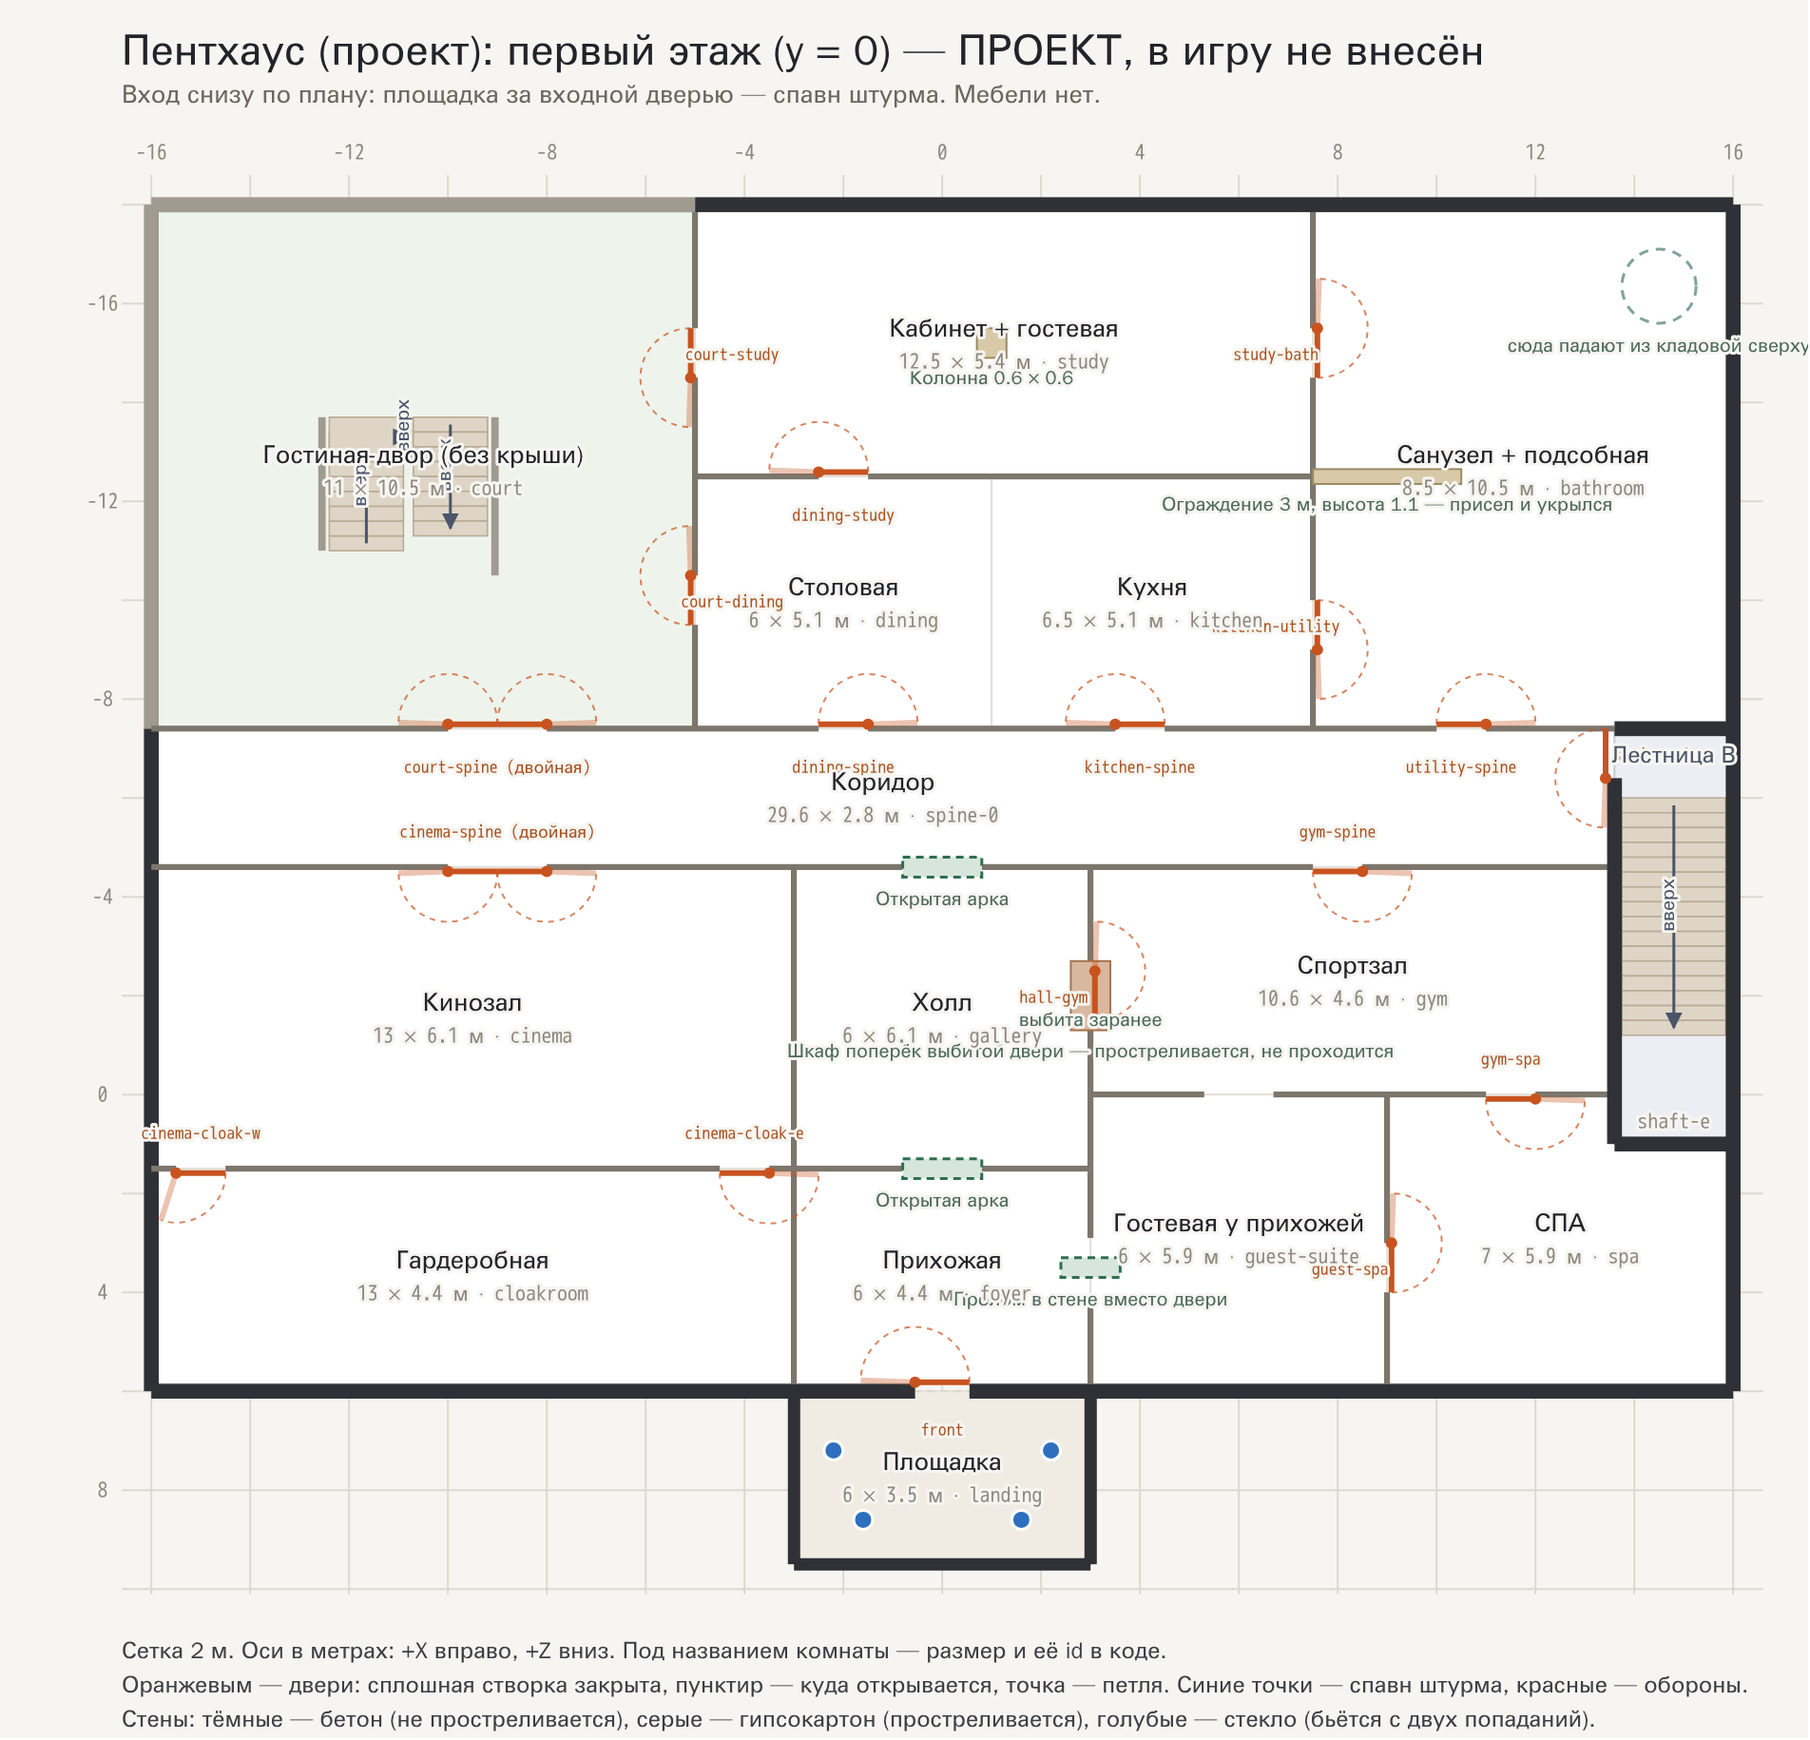
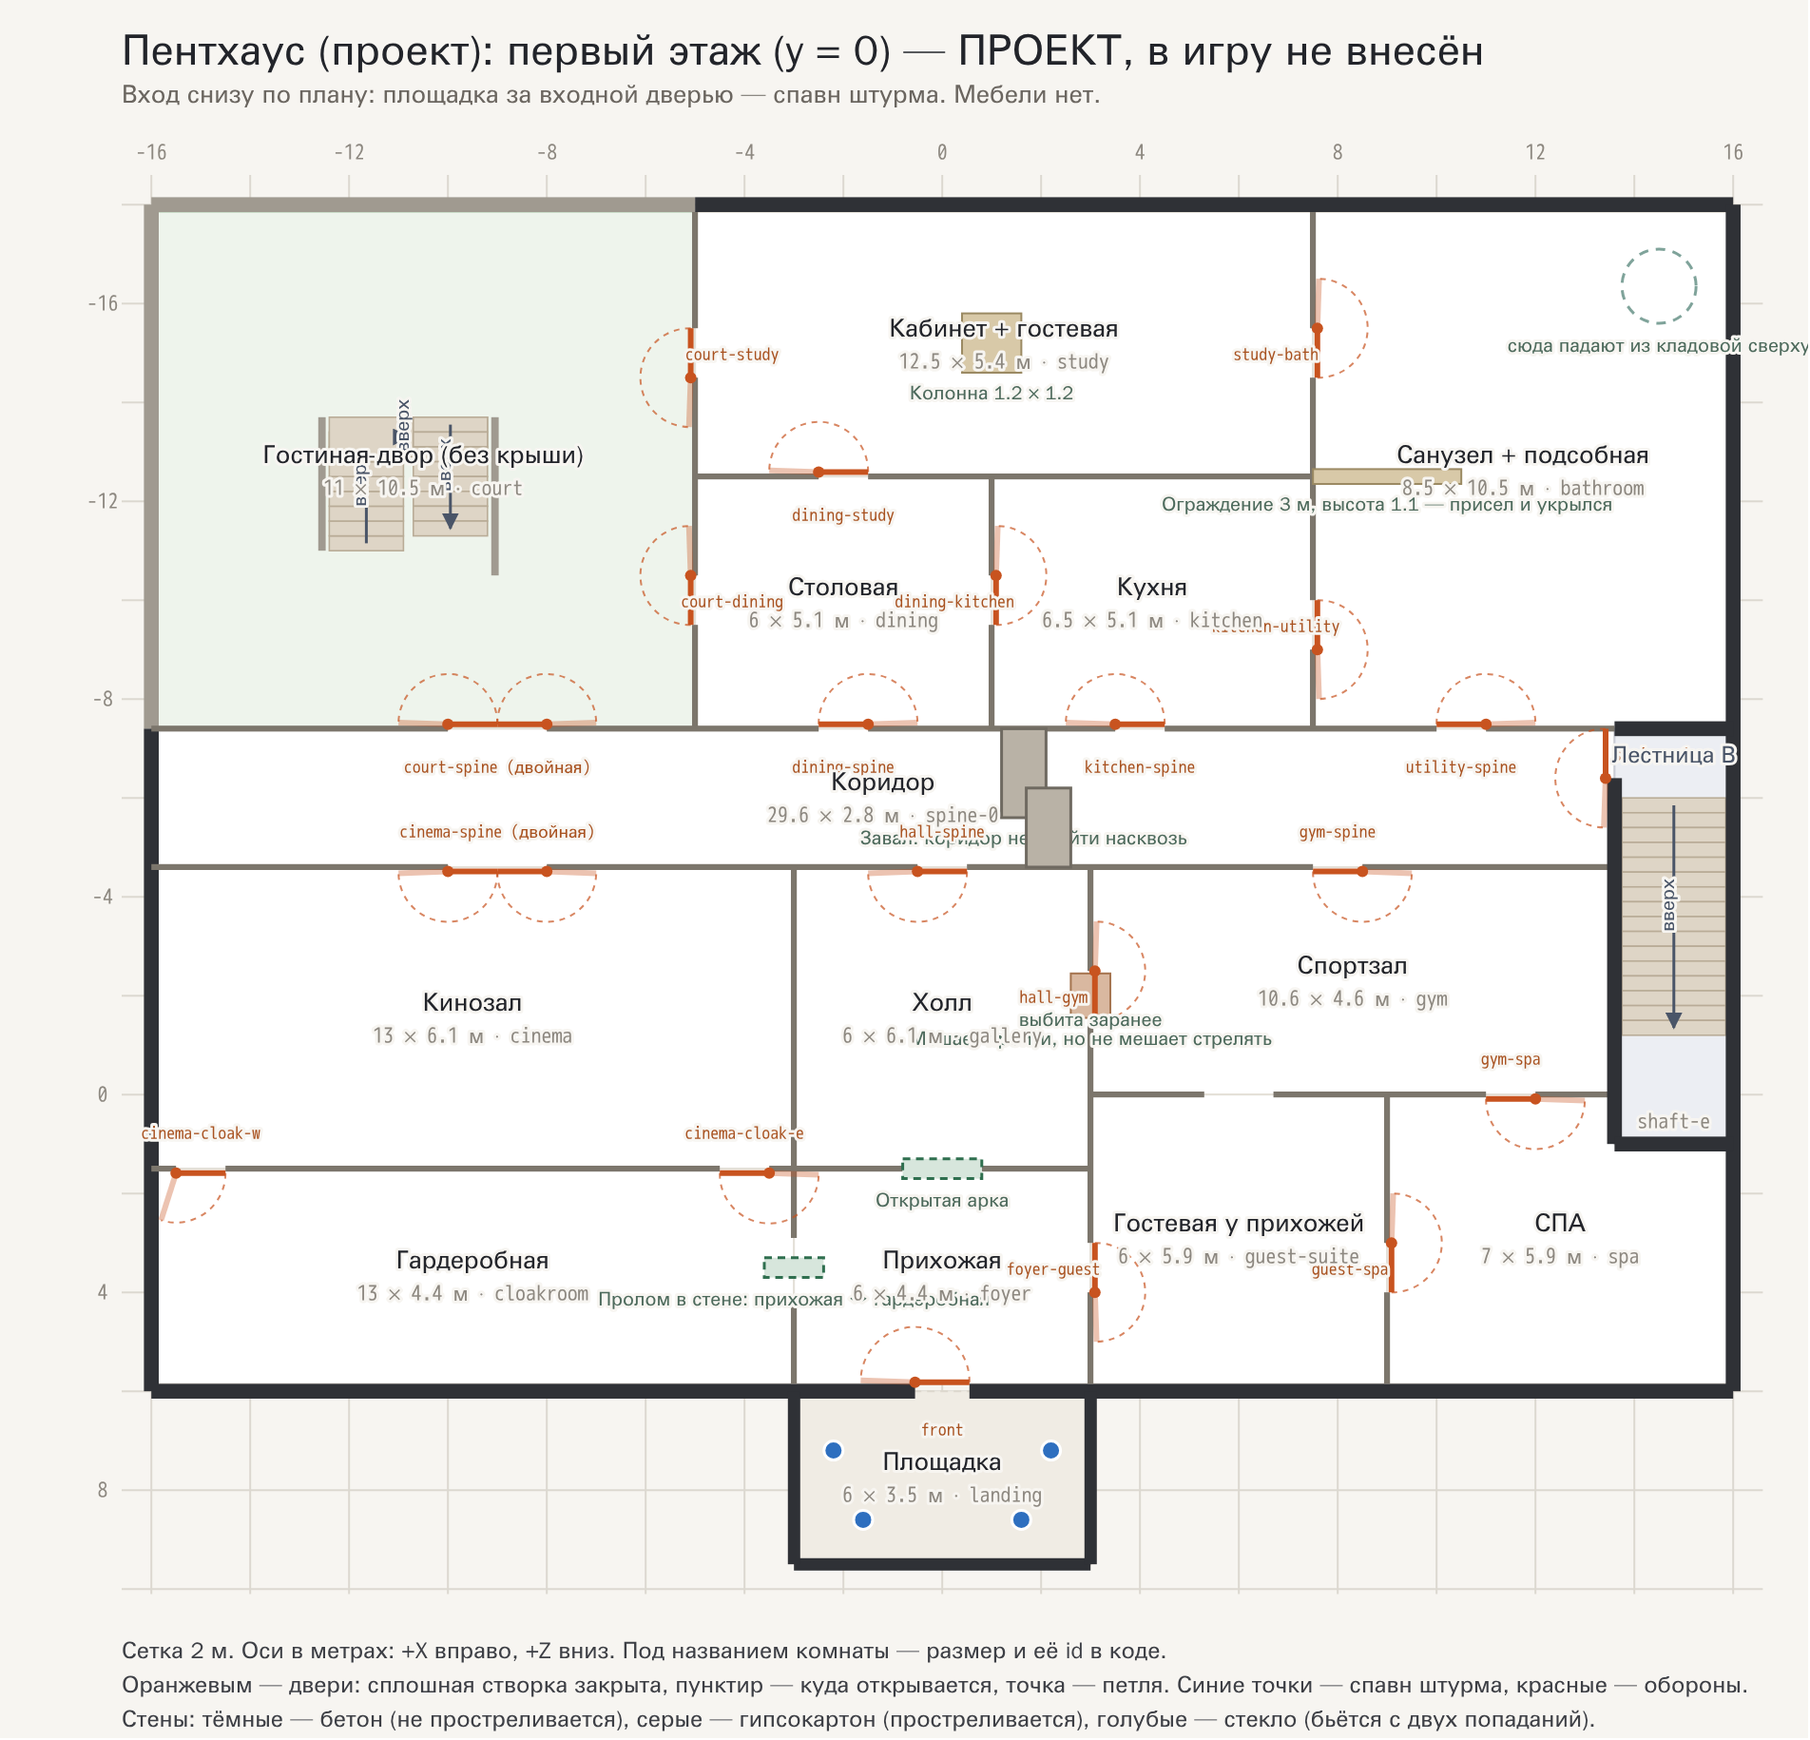
Correct the draft plan where I read it wrong
Six fixes to the proposal, none of them in the game yet:

The breach belongs between the entrance hall and the cloakroom, not the guest
room — the guest room gets an ordinary door, and so does hall ↔ corridor, which
I had drawn as an archway. Dining and kitchen keep the wall and door they
always had. The corridor is caved in between the hall door and the kitchen
door, in two staggered blocks, so its length cannot be walked or shot straight
through. The thing in the kicked-in gym doorway is now knee-high: it stops a
player and leaves the shot alone. The column in the merged study is 1.2 × 1.2.

diff --git a/src/maps/penthouse-v2.js b/src/maps/penthouse-v2.js
@@ -18,8 +18,8 @@
 //   · cinema ↔ hall and hall ↔ cloakroom are walled up, and two new doors join
 //     the cinema to the cloakroom at both ends of its south wall;
 //   · the way into the hall from the guest room is a hole in the wall;
-//   · hall ↔ gym starts kicked in and blocked by a wardrobe you can shoot
-//     through but not walk past;
+//   · hall ↔ gym starts kicked in with something small in the way: no
+//     walking through, but nothing in the way of a shot;
 //   · bathroom and utility become one room split by a bar-height barrier;
 //   · study and guest bedroom become one room with a column where the wall was;
 //   · upstairs: defenders spawn in bedroom 3, the bathroom opens into the
@@ -184,7 +184,7 @@ const groundWalls = [
   ...wall(-16, -4.6, 13.6, -4.6, M.drywall, {
     gaps: [
       { at: -9, width: 2.0 }, // double door, corridor ↔ cinema
-      { at: 0, width: 1.6 }, // open archway into the hall
+      { at: 0, width: 1.0 }, // door into the hall
       { at: 8, width: 1.0 },
     ],
   }),
@@ -195,14 +195,17 @@ const groundWalls = [
     gaps: [{ at: -9.5, width: 1.0 }, { at: -15, width: 1.0 }],
   }),
   ...wall(-5, -12.5, 7.5, -12.5, M.drywall, { gaps: [{ at: -2, width: 1.0 }] }),
+  // Dining and kitchen keep their old wall and door.
+  ...wall(1, -12.5, 1, -7.4, M.drywall, { gaps: [{ at: -10, width: 1.0 }] }),
 
   // South half. Cinema ↔ hall is walled up; the cloakroom is reached from the
   // cinema at both ends of its south wall.
-  ...wall(-3, -4.6, -3, 5.85, M.drywall, {}),
+  // Entrance hall ↔ cloakroom: a hole punched through, no door in it.
+  ...wall(-3, -4.6, -3, 5.85, M.drywall, { gaps: [{ at: 3.5, width: 1.2 }] }),
   ...wall(3, -4.6, 3, 5.85, M.drywall, {
     gaps: [
-      { at: -2, width: 1.0 }, // hall ↔ gym: kicked in, blocked by a wardrobe
-      { at: 3.5, width: 1.2 }, // hole punched in the wall, no door
+      { at: -2, width: 1.0 }, // hall ↔ gym: kicked in, and something in the way
+      { at: 3.5, width: 1.0 }, // ordinary door to the guest room
     ],
   }),
   ...wall(-16, 1.5, 3, 1.5, M.drywall, {
@@ -222,13 +225,22 @@ const blockers = [
   // you are gone, stand and you are seen.
   { ...box(7.5, 0, -12.65, 10.5, RAIL, -12.35, M.concrete), tag: 'barrier',
     note: 'Ограждение 3 м, высота 1.1 — присел и укрылся' },
+
   // The column left behind when the study and the guest bedroom became one.
-  { ...box(0.7, 0, -15.5, 1.3, WALL_H, -14.9, M.concrete), tag: 'column',
-    note: 'Колонна 0.6 × 0.6' },
-  // A wardrobe shoved across the kicked-in gym door: rounds go through, people
-  // do not.
-  { ...box(2.6, 0, -2.7, 3.4, 2.0, -1.3, M.wood), tag: 'blocked',
-    note: 'Шкаф поперёк выбитой двери — простреливается, не проходится' },
+  { ...box(0.4, 0, -15.8, 1.6, WALL_H, -14.6, M.concrete), tag: 'column',
+    note: 'Колонна 1.2 × 1.2' },
+
+  // The corridor is caved in between the hall door and the kitchen door, so
+  // nobody walks its full length in a straight line: the way past is through
+  // the rooms on either side.
+  { ...box(1.2, 0, -7.4, 2.1, WALL_H, -5.6, M.concrete), tag: 'rubble',
+    note: 'Завал: коридор не пройти насквозь' },
+  { ...box(1.7, 0, -6.2, 2.6, WALL_H, -4.6, M.concrete), tag: 'rubble' },
+
+  // Something small shoved into the kicked-in gym doorway: it stops you
+  // walking through, and you can shoot over it and past it freely.
+  { ...box(2.6, 0, -2.45, 3.4, 0.95, -1.55, M.wood), tag: 'blocked',
+    note: 'Мешает пройти, но не мешает стрелять' },
 ];
 
 // ── Upper floor ──────────────────────────────────────────────────────────
@@ -313,6 +325,9 @@ const doors = [
   { id: 'kitchen-spine', pos: { x: 4, z: -7.4 }, axis: 'x', width: 1.0, hinge: -1, swing: -1, material: M.wood },
   { id: 'utility-spine', pos: { x: 10.5, z: -7.4 }, axis: 'x', width: 1.0, hinge: 1, swing: -1, material: M.wood },
   { id: 'gym-spine', pos: { x: 8, z: -4.6 }, axis: 'x', width: 1.0, hinge: 1, swing: 1, material: M.wood },
+  { id: 'hall-spine', pos: { x: 0, z: -4.6 }, axis: 'x', width: 1.0, hinge: -1, swing: 1, material: M.wood },
+  { id: 'dining-kitchen', pos: { x: 1, z: -10 }, axis: 'z', width: 1.0, hinge: -1, swing: 1, material: M.wood },
+  { id: 'foyer-guest', pos: { x: 3, z: 3.5 }, axis: 'z', width: 1.0, hinge: 1, swing: 1, material: M.wood },
 
   { id: 'court-study', pos: { x: -5, z: -15 }, axis: 'z', width: 1.0, hinge: 1, swing: -1, material: M.wood },
   { id: 'court-dining', pos: { x: -5, z: -10 }, axis: 'z', width: 1.0, hinge: -1, swing: -1, material: M.wood },
@@ -359,10 +374,9 @@ const holes = [
 
 // Ways through that are not doors, called out on the plan.
 const openings = [
-  { id: 'foyer-breach', floor: 0, x: 3, z: 3.5, w: 1.2, note: 'Пролом в стене вместо двери' },
+  { id: 'foyer-breach', floor: 0, x: -3, z: 3.5, w: 1.2, note: 'Пролом в стене: прихожая ↔ гардеробная' },
   { id: 'bath-laundry', floor: 1, x: 7, z: -12.5, w: 1.4, note: 'Открытый проход, без двери' },
   { id: 'hall-arch', floor: 0, x: 0, z: 1.5, w: 1.6, note: 'Открытая арка' },
-  { id: 'hall-spine-arch', floor: 0, x: 0, z: -4.6, w: 1.6, note: 'Открытая арка' },
 ];
 
 const L1 = 2.65;

diff --git a/src/game.js b/src/game.js
@@ -1,15 +1,15 @@
 // The runtime: drives a session at a fixed tick rate and turns its state into
 // pictures and sound. Knows nothing about menus or networking.
 
-import * as THREE from '../vendor/three.module.js?v=d3e89d2a';
-import { buildScene, syncDoors, syncLights, makeAvatar } from './render/scene.js?v=d3e89d2a';
-import { createEffects } from './render/effects.js?v=d3e89d2a';
-import { createView } from './render/view.js?v=d3e89d2a';
-import { createHud } from './ui/hud.js?v=d3e89d2a';
-import { DT, PLAYER } from './sim/constants.js?v=d3e89d2a';
-import { lookTarget, eyePosition, aimDirection } from './sim/sim.js?v=d3e89d2a';
-import { raycastGeometry } from './sim/world.js?v=d3e89d2a';
-import { distXZ } from './sim/math.js?v=d3e89d2a';
+import * as THREE from '../vendor/three.module.js?v=eac173d2';
+import { buildScene, syncDoors, syncLights, makeAvatar } from './render/scene.js?v=eac173d2';
+import { createEffects } from './render/effects.js?v=eac173d2';
+import { createView } from './render/view.js?v=eac173d2';
+import { createHud } from './ui/hud.js?v=eac173d2';
+import { DT, PLAYER } from './sim/constants.js?v=eac173d2';
+import { lookTarget, eyePosition, aimDirection } from './sim/sim.js?v=eac173d2';
+import { raycastGeometry } from './sim/world.js?v=eac173d2';
+import { distXZ } from './sim/math.js?v=eac173d2';
 
 const MAX_CATCHUP_TICKS = 12; // bound catch-up work after a stall, without
                               // dropping into slow motion on a weak machine

diff --git a/src/main.js b/src/main.js
@@ -1,14 +1,14 @@
 // Entry point: menus, room setup, and starting a match.
 
-import { APARTMENT } from './maps/apartment.js?v=d3e89d2a';
-import { createGame } from './game.js?v=d3e89d2a';
-import { createAudio } from './audio/audio.js?v=d3e89d2a';
-import { createInputSource, saveSettings } from './input/input.js?v=d3e89d2a';
-import { createLocalSession, createHostSession, createClientSession } from './net/session.js?v=d3e89d2a';
+import { APARTMENT } from './maps/apartment.js?v=eac173d2';
+import { createGame } from './game.js?v=eac173d2';
+import { createAudio } from './audio/audio.js?v=eac173d2';
+import { createInputSource, saveSettings } from './input/input.js?v=eac173d2';
+import { createLocalSession, createHostSession, createClientSession } from './net/session.js?v=eac173d2';
 import {
   createHostTransport, createClientTransport, makeRoomCode, normaliseCode,
-} from './net/transport.js?v=d3e89d2a';
-import { storageGet, storageSet } from './util/storage.js?v=d3e89d2a';
+} from './net/transport.js?v=eac173d2';
+import { storageGet, storageSet } from './util/storage.js?v=eac173d2';
 
 const $ = (id) => document.getElementById(id);
 

diff --git a/index.html b/index.html
@@ -7,8 +7,8 @@
 <meta name="description" content="Хардкорный тактический шутер в тёмном двухэтажном пентхаусе: свет, звук и двери решают больше, чем реакция.">
 <link rel="icon" href="favicon.svg" type="image/svg+xml">
 <!-- Written by tools/stamp-version.mjs; the page checks it against version.txt. -->
-<meta name="gameforus-version" content="d3e89d2a">
-<link rel="stylesheet" href="styles.css?v=d3e89d2a">
+<meta name="gameforus-version" content="eac173d2">
+<link rel="stylesheet" href="styles.css?v=eac173d2">
 </head>
 <body>
 
@@ -360,6 +360,6 @@
   window.addEventListener('load', function () { window.setTimeout(offerUpdate, 1200); });
 })();
 </script>
-<script type="module" src="src/main.js?v=d3e89d2a"></script>
+<script type="module" src="src/main.js?v=eac173d2"></script>
 </body>
 </html>

diff --git a/src/net/session.js b/src/net/session.js
@@ -5,12 +5,12 @@
 // session for a networked one — or later, a dedicated-server one — changes
 // nothing else.
 
-import { buildWorld } from '../sim/world.js?v=d3e89d2a';
+import { buildWorld } from '../sim/world.js?v=eac173d2';
 import {
   createState, addPlayer, removePlayer, stepSim, createInput, resetRound,
-} from '../sim/sim.js?v=d3e89d2a';
-import { createBotBrain } from '../sim/bot.js?v=d3e89d2a';
-import { DT } from '../sim/constants.js?v=d3e89d2a';
+} from '../sim/sim.js?v=eac173d2';
+import { createBotBrain } from '../sim/bot.js?v=eac173d2';
+import { DT } from '../sim/constants.js?v=eac173d2';
 
 // ── Solo / training ───────────────────────────────────────────────────────
 

diff --git a/src/input/input.js b/src/input/input.js
@@ -1,10 +1,10 @@
 // Keyboard and mouse -> a plain input object for the simulation.
 // Nothing here knows about the game rules; it only reports intent.
 
-import { createInput } from '../sim/sim.js?v=d3e89d2a';
-import { LOOK } from '../sim/constants.js?v=d3e89d2a';
-import { clamp } from '../sim/math.js?v=d3e89d2a';
-import { storageGet, storageSet } from '../util/storage.js?v=d3e89d2a';
+import { createInput } from '../sim/sim.js?v=eac173d2';
+import { LOOK } from '../sim/constants.js?v=eac173d2';
+import { clamp } from '../sim/math.js?v=eac173d2';
+import { storageGet, storageSet } from '../util/storage.js?v=eac173d2';
 
 export const DEFAULT_BINDINGS = {
   forward: 'KeyW',

diff --git a/src/render/view.js b/src/render/view.js
@@ -1,9 +1,9 @@
 // Camera rig: turns a simulated player into a first-person view — lean, stance,
 // recoil, breathing sway — plus the flashlight and the weapon model.
 
-import * as THREE from '../../vendor/three.module.js?v=d3e89d2a';
-import { PLAYER, FLASHLIGHT, WEAPONS, FOV } from '../sim/constants.js?v=d3e89d2a';
-import { lerp } from '../sim/math.js?v=d3e89d2a';
+import * as THREE from '../../vendor/three.module.js?v=eac173d2';
+import { PLAYER, FLASHLIGHT, WEAPONS, FOV } from '../sim/constants.js?v=eac173d2';
+import { lerp } from '../sim/math.js?v=eac173d2';
 
 export function createView(scene) {
   const camera = new THREE.PerspectiveCamera(FOV, 1, 0.02, 120);

diff --git a/src/sim/bot.js b/src/sim/bot.js
@@ -4,9 +4,9 @@
 // The bot plays the way the map wants to be played: it holds an angle, reacts
 // to sound, and pushes only when it has a reason to.
 
-import { createInput, eyePosition, aimDirection } from './sim.js?v=d3e89d2a';
-import { hasLineOfSight } from './world.js?v=d3e89d2a';
-import { distXZ, clamp } from './math.js?v=d3e89d2a';
+import { createInput, eyePosition, aimDirection } from './sim.js?v=eac173d2';
+import { hasLineOfSight } from './world.js?v=eac173d2';
+import { distXZ, clamp } from './math.js?v=eac173d2';
 
 // Indoors nobody picks a figure out of the gloom across the whole map.
 const MAX_SIGHT = 24;

diff --git a/src/sim/sim.js b/src/sim/sim.js
@@ -7,13 +7,13 @@
 
 import {
   PLAYER, LOOK, DAMAGE, WEAPONS, DOOR, FLASHLIGHT, NOISE, ROUND, DT,
-} from './constants.js?v=d3e89d2a';
+} from './constants.js?v=eac173d2';
 import {
   clamp, approach, dirFromAngles, distXZ, makeRng, rayBox,
-} from './math.js?v=d3e89d2a';
+} from './math.js?v=eac173d2';
 import {
   moveAndCollide, groundedAt, raycastGeometry, doorFrame, worldToLocal, dirToLocal,
-} from './world.js?v=d3e89d2a';
+} from './world.js?v=eac173d2';
 
 const GRAVITY = 18;
 

diff --git a/src/render/scene.js b/src/render/scene.js
@@ -1,8 +1,8 @@
 // Builds the Three.js scene from the same map data the simulation uses, so
 // what you see is exactly what you collide with and shoot through.
 
-import * as THREE from '../../vendor/three.module.js?v=d3e89d2a';
-import { doorAngle } from '../sim/world.js?v=d3e89d2a';
+import * as THREE from '../../vendor/three.module.js?v=eac173d2';
+import { doorAngle } from '../sim/world.js?v=eac173d2';
 
 const DOOR_HEIGHT = 2.05;
 const DOOR_THICKNESS = 0.06;

diff --git a/src/sim/world.js b/src/sim/world.js
@@ -2,8 +2,8 @@
 // geometry, and bullet raycasts that respect material penetration.
 // Pure — no engine types cross this boundary.
 
-import { rayBox, boxOverlaps, clamp } from './math.js?v=d3e89d2a';
-import { DOOR } from './constants.js?v=d3e89d2a';
+import { rayBox, boxOverlaps, clamp } from './math.js?v=eac173d2';
+import { DOOR } from './constants.js?v=eac173d2';
 
 const DOOR_HEIGHT = 2.05;
 const DOOR_THICKNESS = 0.06;

diff --git a/src/net/transport.js b/src/net/transport.js
@@ -10,7 +10,7 @@
 //   - some strict NATs need a TURN relay, which this free setup doesn't have.
 // Both go away when the simulation moves to a real server.
 
-import { createBusHost, joinBus } from './localbus.js?v=d3e89d2a';
+import { createBusHost, joinBus } from './localbus.js?v=eac173d2';
 
 // PeerJS ships as a classic browser bundle, so it is loaded on demand rather
 // than imported. Solo play never downloads it.
